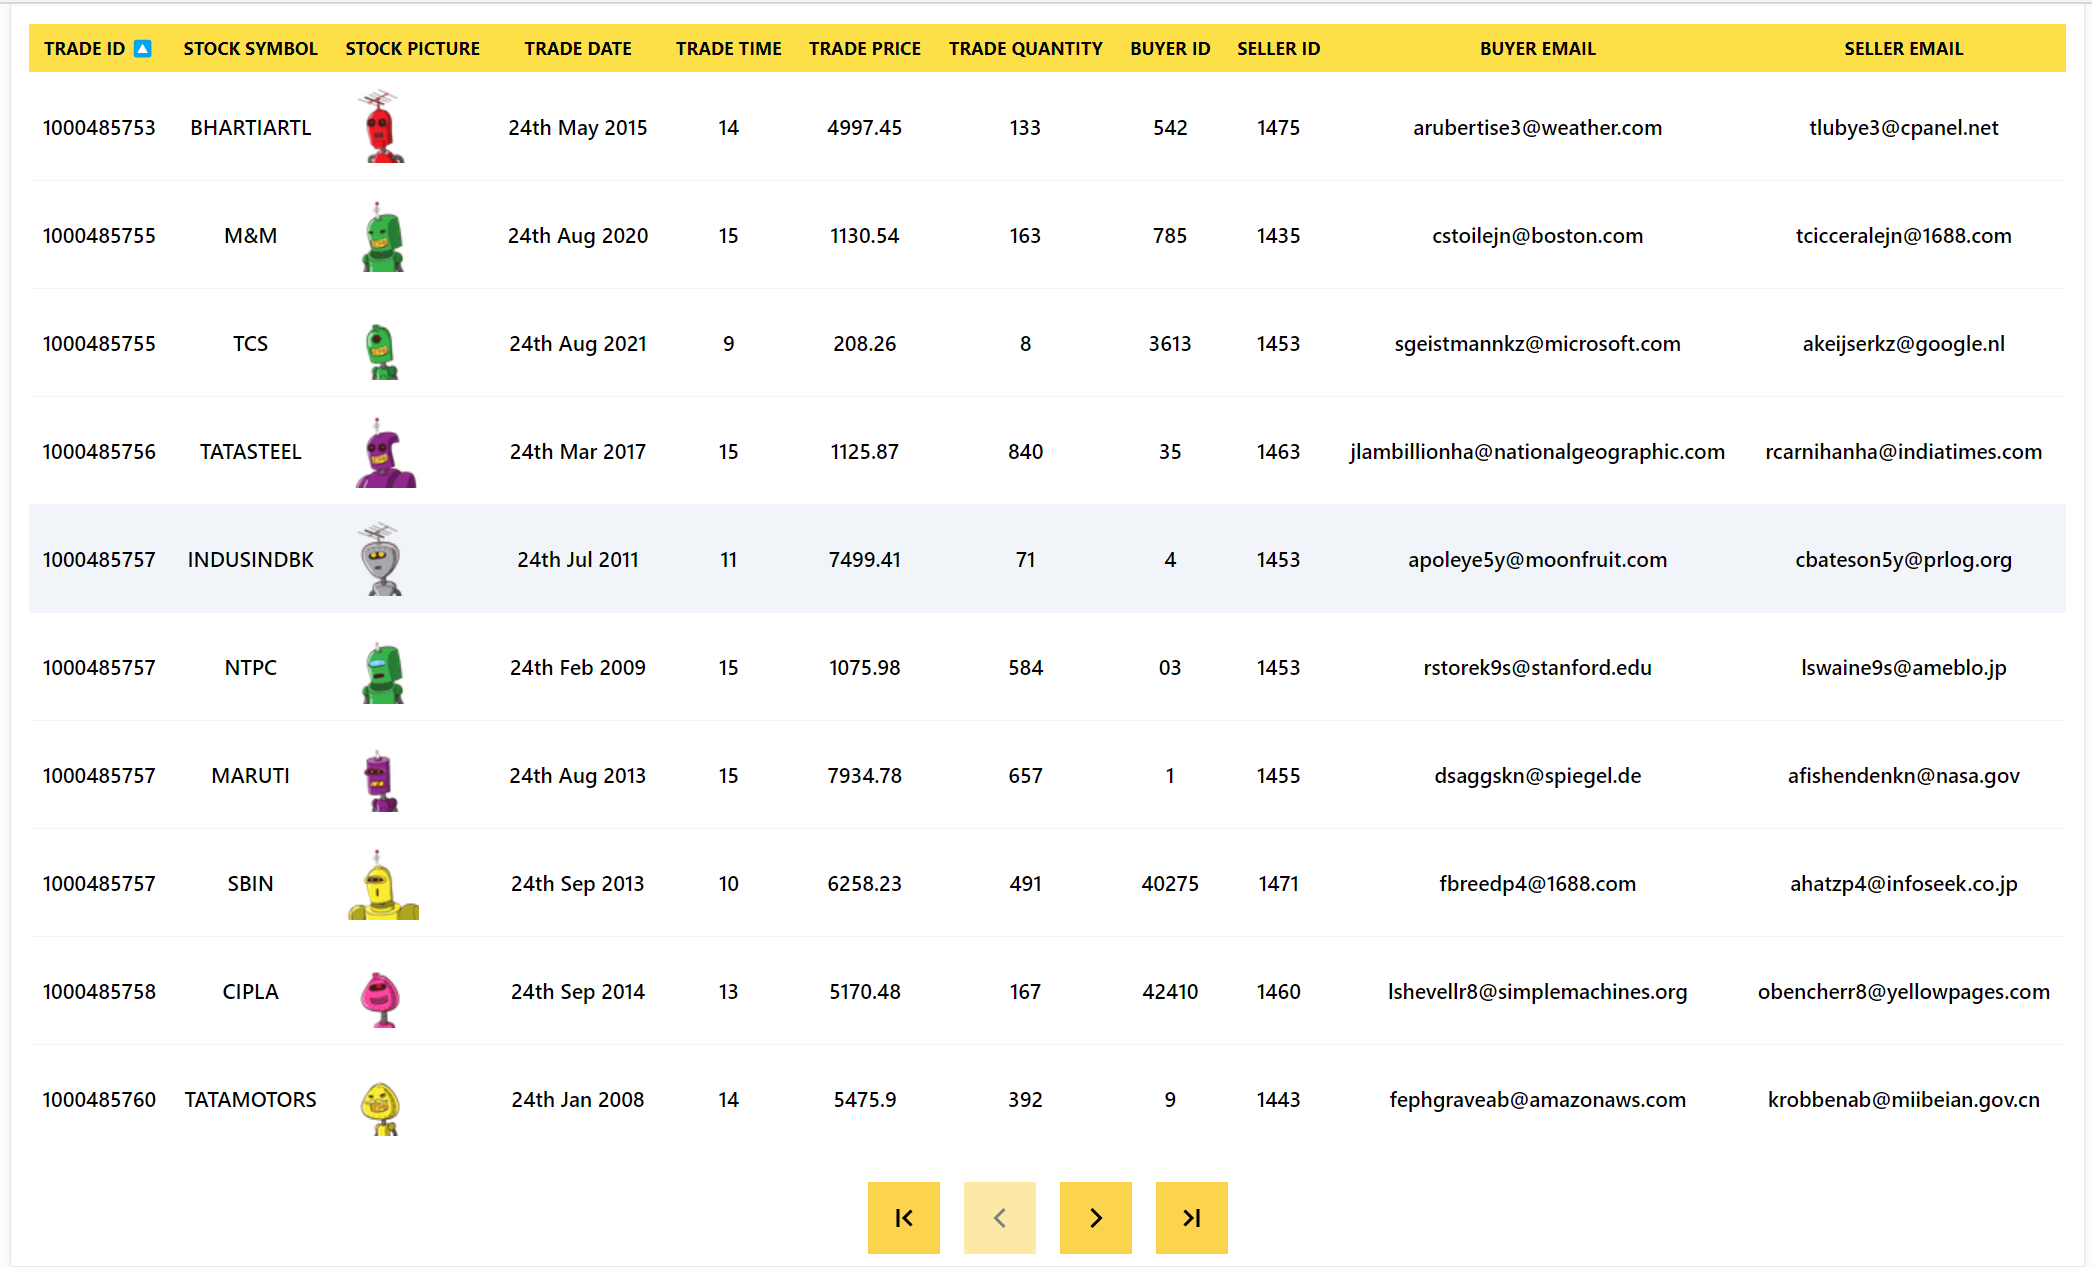
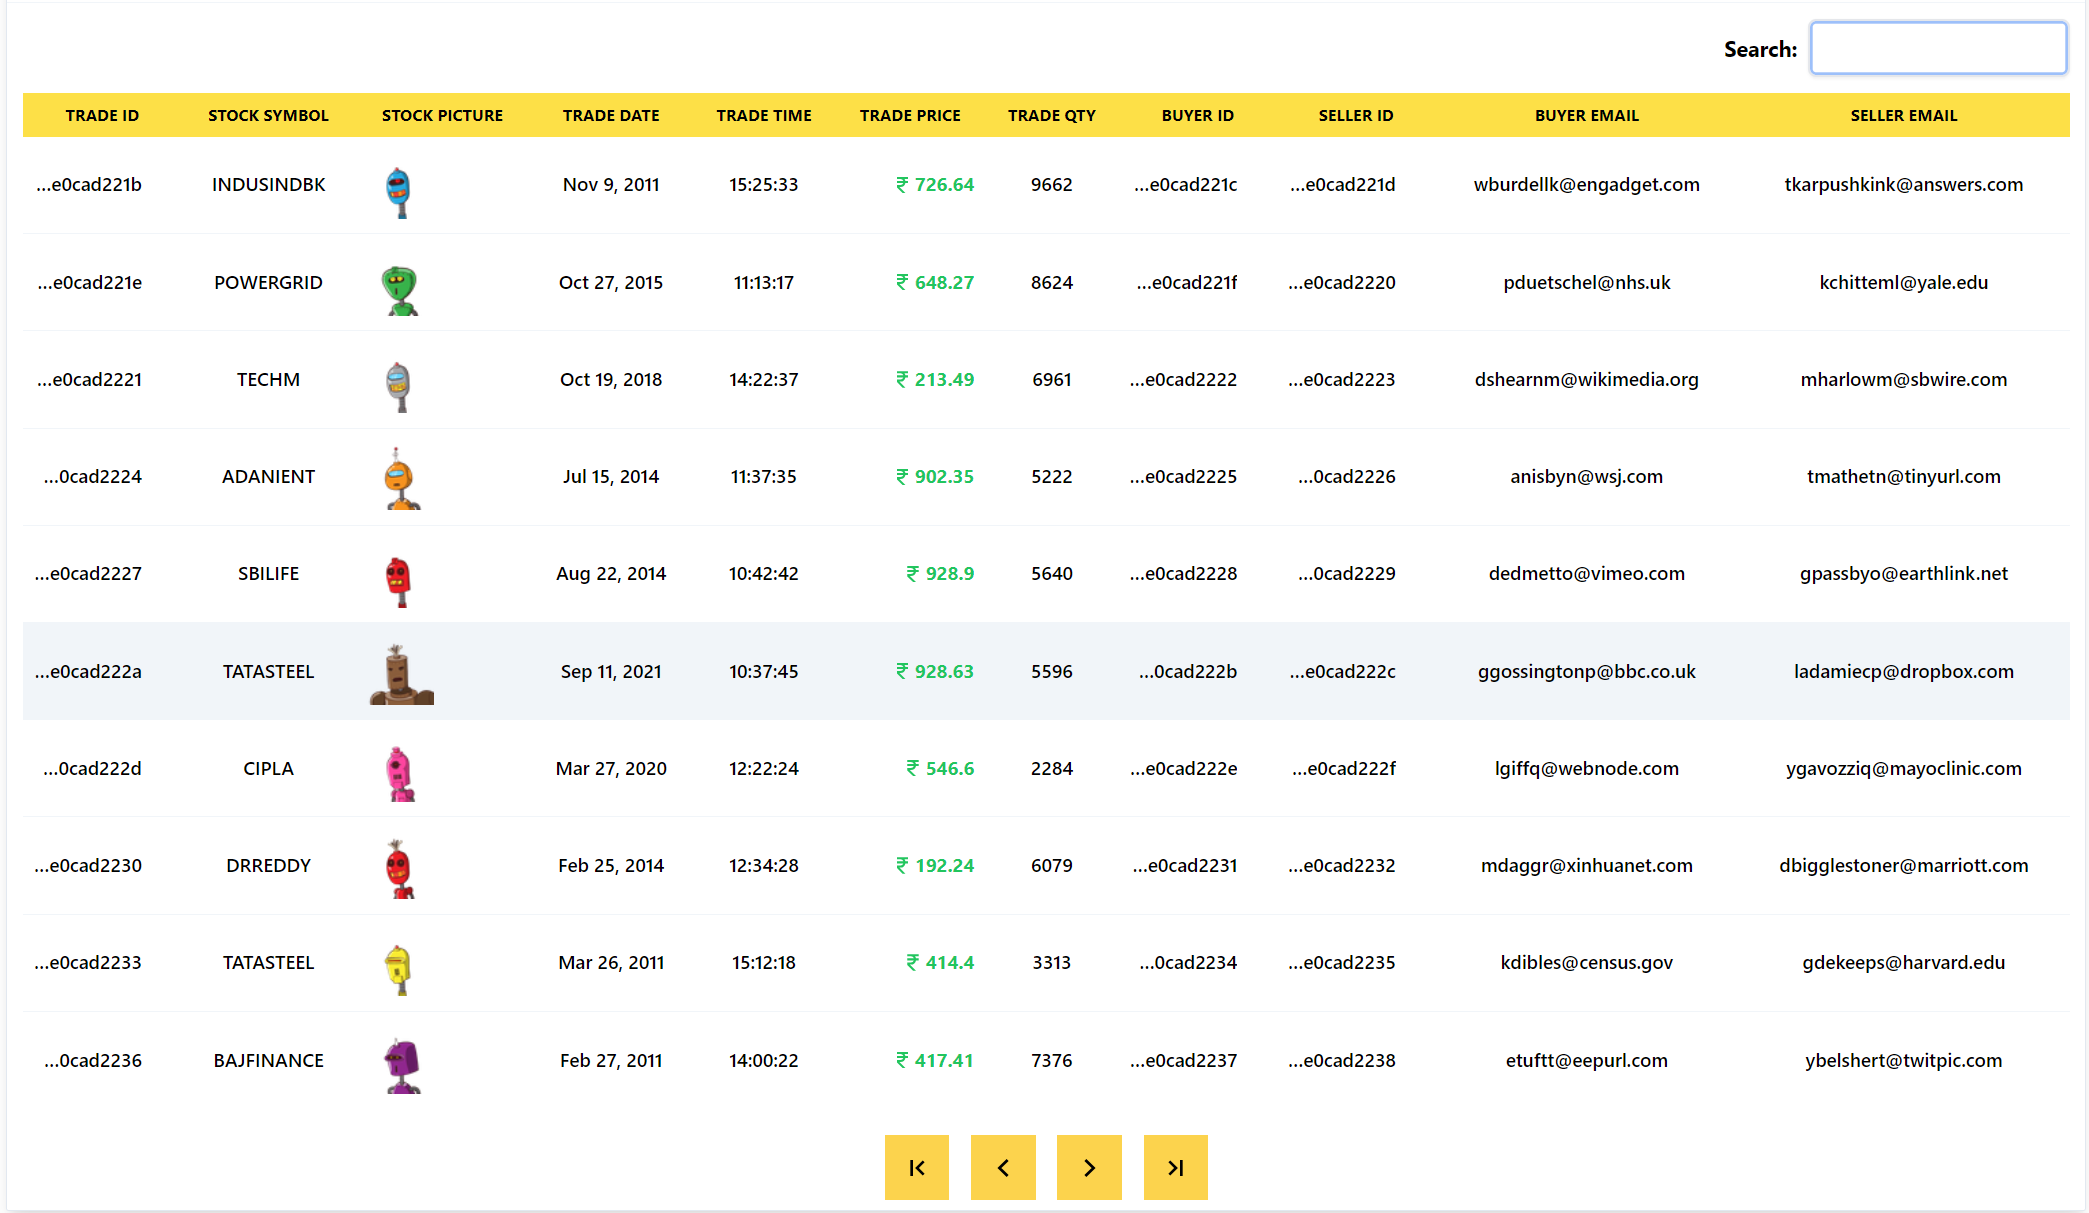
Enchanced the whole project

diff --git a/src/components/BasicDataTable.jsx b/src/components/BasicDataTable.jsx
@@ -1,107 +1,17 @@
-import React, { useEffect, useMemo, useState } from 'react'
-import tradesData from '../../services/TRADE_DATA.json'
-import { format } from 'date-fns'
-import { DateTime } from 'luxon'
+import React, { useState } from 'react'
 import { BiFirstPage, BiLastPage } from 'react-icons/bi'
-import { GrFormPrevious, GrFormNext } from 'react-icons/gr'
+import { FcPrevious, FcNext } from 'react-icons/fc'
+import { MdOutlineArrowBackIos, MdOutlineArrowForwardIos } from 'react-icons/md'
 import { flexRender, useReactTable, getCoreRowModel, getPaginationRowModel, getSortedRowModel, getFilteredRowModel } from '@tanstack/react-table'
 
-const BasicDataTable = () => {
-
-    const demoData = []
-
-    // const [data, setData] = useState([...demoData])
+const BasicDataTable = ({ tableTitle, data, columns, bgColor, txtColor }) => {
 
     const [sorting, setSorting] = useState([])
     const [filtering, setFiltering] = useState('')
 
-    // const data = []
-    const data = useMemo(() => tradesData, [])
-
-    // {
-    //     "trade_id": 1000485941,
-    //     "stock_symbol": "ULTRACEMCO",
-    //     "stock_picture": "https://robohash.org/etadipisciodio.png?size=50x50&set=set1",
-    //     "trade_date": "7/19/2017",
-    //     "trade_time": 9,
-    //     "trade_price": 5067.48,
-    //     "trade_quantity": 333,
-    //     "buyer_id": "6242",
-    //     "seller_id": 1428,
-    //     "buyer_email": "rdwire0@mozilla.org",
-    //     "seller_email": "apearcy0@studiopress.com"
-    // }
-
-    /** @type import('@tanstack/react-table').ColumnDef<any> */
-    const columns = [
-        {
-            header: 'Trade ID',
-            accessorKey: 'trade_id.$oid',
-            footer: 'Trade ID',
-            cell: info => <div className='overflow-hidden whitespace-nowrap text-ellipsis w-20' style={{direction: 'rtl'}}>{info.getValue()}</div> 
-        },
-        {
-            header: 'Stock Symbol',
-            accessorKey: 'stock_symbol',
-            footer: 'Stock Symbol'
-        },
-        {
-            header: 'Stock Picture',
-            accessorKey: 'stock_picture',
-            footer: 'Stock Picture',
-            cell: info => <img src={info.getValue()} alt="Avatar" />
-        },
-        {
-            header: 'Trade Date',
-            accessorKey: 'trade_date',
-            footer: 'Trade Date',
-            cell: info =>
-                // format(new Date(info.getValue()), 'ko MMM yyyy') // using date-fns --> Not working
-                DateTime.fromFormat(info.getValue(), 'MM/dd/yyyy').toFormat('LLL d, yyyy') // using luxon
-            // DateTime.fromISO(info.getValue()).toLocaleString(DateTime.DATE_MED), // using luxon
-        },
-        {
-            header: 'Trade Time',
-            accessorKey: 'trade_time',
-            footer: 'Trade Time'
-        },
-        {
-            header: 'Trade Price',
-            accessorKey: 'trade_price',
-            footer: 'Trade Price'
-        },
-        {
-            header: 'Trade Quantity',
-            accessorKey: 'trade_quantity',
-            footer: 'Trade Quantity'
-        },
-        {
-            header: 'Buyer ID',
-            accessorKey: 'buyer_id.$oid',
-            footer: 'Buyer ID',
-            cell: info => <div className='overflow-hidden whitespace-nowrap text-ellipsis w-20' style={{direction: 'rtl'}}>{info.getValue()}</div> 
-        },
-        {
-            header: 'Seller ID',
-            accessorKey: 'seller_id.$oid',
-            footer: 'Seller ID',
-            cell: info => <div className='overflow-hidden whitespace-nowrap text-ellipsis w-20' style={{direction: 'rtl'}}>{info.getValue()}</div> 
-        },
-        {
-            header: 'Buyer Email',
-            accessorKey: 'buyer_email',
-            footer: 'Buyer Email'
-        },
-        {
-            header: 'Seller Email',
-            accessorKey: 'seller_email',
-            footer: 'Seller Email'
-        }
-    ]
-
     const table = useReactTable({
-        data,
-        columns,
+        data: data,
+        columns: columns,
         getCoreRowModel: getCoreRowModel(),
         getPaginationRowModel: getPaginationRowModel(),
         getSortedRowModel: getSortedRowModel(),
@@ -116,10 +26,9 @@ const BasicDataTable = () => {
 
     return (
         <>
-            {/* <div className='m-5 p-5 bg-blue-500 text-white font-bold text-xl'>Basic Data Table</div> */}
             <div className="m-5 bg-white shadow-lg rounded-sm border border-slate-200">
                 <header className="px-5 py-4 border-b border-slate-100">
-                    <h2 className="font-bold capitalize text-xl text-slate-800">All Users of the System</h2>
+                    <h2 className="font-bold capitalize text-xl text-slate-800">{tableTitle}</h2>
                 </header>
                 <div className="p-3">
                     <div className='flex justify-end items-center mb-3 gap-2'>
@@ -133,11 +42,10 @@ const BasicDataTable = () => {
                             onChange={(e) => setFiltering(e.target.value)}
                             className={`block rounded-md border-2 px-3.5 py-2 text-black shadow-sm ring-2 ring-inset ring-color6 focus:ring-color2 placeholder:text-gray-400 focus:outline-none sm:text-sm sm:leading-6`}
                         />
-                        {/* <input type="text" name="searchBox" value={filtering} onChange={(e) => setFiltering(e.target.value)} /> */}
                     </div>
                     <div className="overflow-x-auto">
                         <table className="table-auto w-full">
-                            <thead className="text-xs font-bold uppercase text-black bg-yellow-300">
+                            <thead className={`text-xs font-bold uppercase ${bgColor} ${txtColor}`}>
                                 {table.getHeaderGroups().map(headerGroup => (
                                     <tr key={headerGroup.id}>
                                         {headerGroup.headers.map(header => (
@@ -188,24 +96,24 @@ const BasicDataTable = () => {
                     </div>
                 </div>
                 <div className='flex justify-center items-center'>
-                    <button className='m-2 p-3 bg-amber-300'
+                    <button className={`m-2 p-3 ${bgColor}`}
                         onClick={() => table.setPageIndex(0)}>
-                        <BiFirstPage className='text-2xl text-black' />
+                        <BiFirstPage className={`text-2xl ${txtColor}`} />
                     </button>
-                    <button className={`${!table.getCanPreviousPage() ? 'opacity-50 cursor-not-allowed' : ''} m-2  p-3 bg-amber-300`}
+                    <button className={`${!table.getCanPreviousPage() ? 'opacity-50 cursor-not-allowed' : ''} m-2  p-3 ${bgColor}`}
                         disabled={!table.getCanPreviousPage()}
                         onClick={() => table.previousPage()}
                     >
-                        <GrFormPrevious className='text-2xl text-black' />
+                        <MdOutlineArrowBackIos className={`text-xl ${txtColor}`} />
                     </button>
-                    <button className={`${!table.getCanNextPage() ? 'opacity-50 cursor-not-allowed' : ''} m-2  p-3 bg-amber-300`}
+                    <button className={`${!table.getCanNextPage() ? 'opacity-50 cursor-not-allowed' : ''} m-2  p-3 ${bgColor}`}
                         disabled={!table.getCanNextPage()}
                         onClick={() => table.nextPage()}
                     >
-                        <GrFormNext className='text-2xl text-black' />
+                        <MdOutlineArrowForwardIos className={`text-xl ${txtColor}`} />
                     </button>
-                    <button className='m-2 p-3 bg-amber-300' onClick={() => table.setPageIndex(table.getPageCount() - 1)}>
-                        <BiLastPage className='text-2xl text-black' />
+                    <button className={`m-2 p-3 ${bgColor}`} onClick={() => table.setPageIndex(table.getPageCount() - 1)}>
+                        <BiLastPage className={`text-2xl ${txtColor}`} />
                     </button>
                 </div>
             </div>

diff --git a/src/App.jsx b/src/App.jsx
@@ -1,16 +1,86 @@
-import { useState } from 'react'
 import './App.css'
+import tradesDataJson from '../services/TRADE_DATA.json'
 import BasicDataTable from './components/BasicDataTable'
+import { useMemo } from 'react'
+// import { format } from 'date-fns'
+import { DateTime } from 'luxon'
+import { BiRupee } from 'react-icons/bi'
 
 function App() {
-  const [count, setCount] = useState(0)
+
+  const tradesData = useMemo(() => tradesDataJson, [])
+
+  /** @type import('@tanstack/react-table').ColumnDef<any> */
+  const tradesDataColumns = [
+    {
+      header: 'Trade ID',
+      accessorKey: 'trade_id.$oid',
+      footer: 'Trade ID',
+      cell: info => <div className='overflow-hidden whitespace-nowrap text-ellipsis w-20' style={{ direction: 'rtl' }}>{info.getValue()}</div>
+    },
+    {
+      header: 'Stock Symbol',
+      accessorKey: 'stock_symbol',
+      footer: 'Stock Symbol'
+    },
+    {
+      header: 'Stock Picture',
+      accessorKey: 'stock_picture',
+      footer: 'Stock Picture',
+      cell: info => <img src={info.getValue()} alt="Avatar" />
+    },
+    {
+      header: 'Trade Date',
+      accessorKey: 'trade_date',
+      footer: 'Trade Date',
+      cell: info =>
+        // format(new Date(info.getValue()), 'ko MMM yyyy') // using date-fns --> Not working
+        DateTime.fromFormat(info.getValue(), 'MM/dd/yyyy').toFormat('LLL d, yyyy') // using luxon
+      // DateTime.fromISO(info.getValue()).toLocaleString(DateTime.DATE_MED), // using luxon
+    },
+    {
+      header: 'Trade Time',
+      accessorKey: 'trade_time',
+      footer: 'Trade Time'
+    },
+    {
+      header: 'Trade Price',
+      accessorKey: 'trade_price',
+      footer: 'Trade Price',
+      cell: info => <div className='text-green-500 font-bold flex justify-end items-center'><BiRupee className='text-lg' />{info.getValue()}</div>
+    },
+    {
+      header: 'Trade Qty',
+      accessorKey: 'trade_quantity',
+      footer: 'Trade Qty'
+    },
+    {
+      header: 'Buyer ID',
+      accessorKey: 'buyer_id.$oid',
+      footer: 'Buyer ID',
+      cell: info => <div className='overflow-hidden whitespace-nowrap text-ellipsis w-20' style={{ direction: 'rtl' }}>{info.getValue()}</div>
+    },
+    {
+      header: 'Seller ID',
+      accessorKey: 'seller_id.$oid',
+      footer: 'Seller ID',
+      cell: info => <div className='overflow-hidden whitespace-nowrap text-ellipsis w-20' style={{ direction: 'rtl' }}>{info.getValue()}</div>
+    },
+    {
+      header: 'Buyer Email',
+      accessorKey: 'buyer_email',
+      footer: 'Buyer Email'
+    },
+    {
+      header: 'Seller Email',
+      accessorKey: 'seller_email',
+      footer: 'Seller Email'
+    }
+  ]
 
   return (
     <>
-      {/* <h1 className="text-3xl font-bold underline">
-        Hello world!
-      </h1> */}
-      <BasicDataTable />
+      <BasicDataTable tableTitle='nifty 50 securities transaction ledger' data={tradesData} columns={tradesDataColumns} bgColor='bg-[#CCF381]' txtColor='text-[#4831D4]' />
     </>
   )
 }
